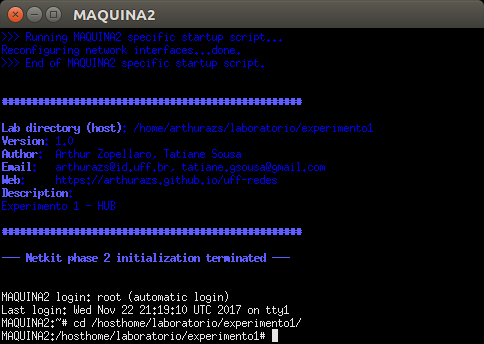
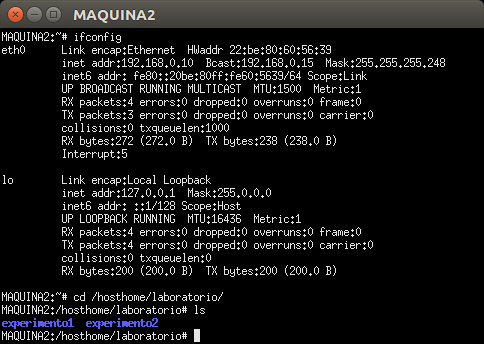
Corrige erros no Experimento 1

diff --git a/README.md b/README.md
@@ -43,13 +43,19 @@ Primeiramente haverá um tutorial para a instalação da ferramenta **Netkit**, 
 
 ### Experimento 1
 
-![Representação da rede simulada](/imagens/experimento1.jpg)
+Em seguida, será utilizado um cenário simples com 4 máquinas interligadas por um hub, havendo comunicação apenas entre 2 dessas máquinas.
 
-Em seguida, será utilizado um cenário simples com 4 máquinas interligadas por um hub, havendo comunicação apenas entre 2 dessas máquinas. Os alunos irão discutir o motivo das duas outras máquinas não estarem se comunicando com as demais. A turma irá acompanhar um passo a passo utilizando comandos reais de Linux para a configuração do **Endereço IP** e **Máscara de sub-rede** com o objetivo de conectar as outras duas máquinas na rede. O programa **Wireshark** será utilizado para analisar datagramas IP que serão enviados entre as máquinas utilizando o protocolo **ICMP** (ping).
+![Representação da rede simulada no Experimento 1](/imagens/experimento1.jpg)
+
+Os alunos irão discutir o motivo das duas outras máquinas não estarem se comunicando com as demais. A turma irá acompanhar um passo a passo utilizando comandos reais de Linux para a configuração do **Endereço IP** e **Máscara de sub-rede** com o objetivo de conectar as outras duas máquinas na rede. O programa **Wireshark** será utilizado para analisar datagramas IP que serão enviados entre as máquinas utilizando o protocolo **ICMP** (ping).
 
 ### Experimento 2
 
-Para finalizar, utilizaremos um exemplo mais complexo que irá introduzir o conceito de **NAT**, onde os alunos irão configurar a conexão entre uma rede local e a internet. O programa ***Wireshark*** será utilizado em diversas etapas deste experimento para auxiliar na detecção dos problemas envolvidos na comunicação entre uma máquina com IP privado (rede local) e uma máquina com IP público (internet). Serão analisados as mensagens enviados entre as máquinas utilizando os protocolos **ICMP** de **ping** e **traceroute**.
+Para finalizar, utilizaremos um exemplo mais complexo que irá introduzir o conceito de **NAT**.
+
+![Representação da rede simulada no Experimento 2](/imagens/experimento2.jpg)
+
+Os alunos irão configurar a conexão entre uma rede local e a internet. O programa ***Wireshark*** será utilizado em diversas etapas deste experimento para auxiliar na detecção dos problemas envolvidos na comunicação entre uma máquina com IP privado (rede local) e uma máquina com IP público (internet). Serão analisados as mensagens enviados entre as máquinas utilizando os protocolos **ICMP** de **ping** e **traceroute**.
 
 ## Ambiente
 
@@ -113,6 +119,8 @@ Para verificar se sua instalação foi bem sucedida, execute:
     $ cd $NETKIT_HOME
     $ sh check_configuration.sh
 
+---
+
 ###  Experimento 1 *(HUB)*
 
 Este é um cenário simples com 4 máquinas interligadas por um hub, havendo comunicação apenas entre 2 dessas máquinas. O objetivo deste experimento é ambientá-lo com as ferramentas de simulação e de análise do tráfego da rede.
@@ -122,7 +130,7 @@ Este é um cenário simples com 4 máquinas interligadas por um hub, havendo com
 #### Executando a simulação
 
 1. Crie uma pasta em sua `/home/usuario/` com o nome **laboratorio**.
-2. Baixe o [experimento1.zip](/arquivos/experimento1.zip) e descompacte o arquivo dentro da pasta `/home/usuario/laboratorio`.
+2. Baixe o [experimento1.zip](/arquivos/experimento1.zip) e descompacte o arquivo dentro da pasta `/home/usuario/laboratorio/`.
 3. No terminal, entre na pasta **experimento1**:
 
         $ cd
@@ -177,7 +185,7 @@ Este é um cenário simples com 4 máquinas interligadas por um hub, havendo com
 
 1. Nós iremos coletar informações da interface das Máquinas 2 e 3. Para salvar os arquivos em sua máquina física, execute o comando a seguir nas máquinas 2 e 3:
 
-        # cd /hosthome/laboratorio/experimento1/
+        # cd /hosthome/laboratorio/
 
     ![Trocando o diretório na MAQUINA2](/imagens/experimento1b.png)
 
@@ -217,13 +225,15 @@ Este é um cenário simples com 4 máquinas interligadas por um hub, havendo com
 
     ![Finalizando a simulação com lcrash -F](/imagens/experimento1j.png)
 
-3. *NOTA* O netkit mantém o estado das máquinas virtuais nos arquivos **MAQUINAX.disk**, possibilitando a continuação da simulação em outro momento. Estes arquivos podem ser extremamente grandes por conflito entre as arquiteturas 32-bit e 64-bit.
+3. *NOTA* O netkit mantém o estado das máquinas virtuais nos arquivos **MAQUINAX.disk**, possibilitando a continuação da simulação em outro momento. Estes arquivos podem ser extremamente grandes devido ao conflito entre as arquiteturas 32-bit e 64-bit.
 
     ![Tamanho do arquivo MAQUINA1.disk](/imagens/experimento1k.png)
 
     Caso tenha concluído a simulação e não deseje manter o estado das máquinas, execute o comando `lclean`:
 
     ![Removendo os arquivos *.disk](/imagens/experimento1l.png)
+
+---
 
 ###  Experimento 2 *(NAT)*
 
